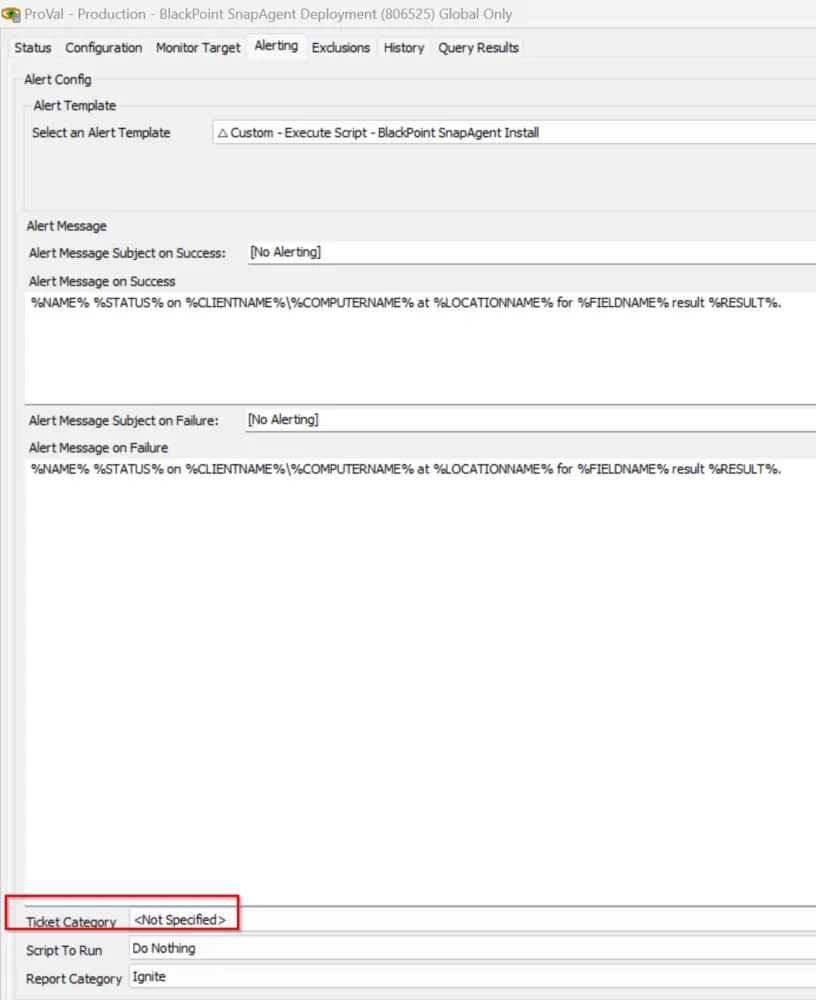
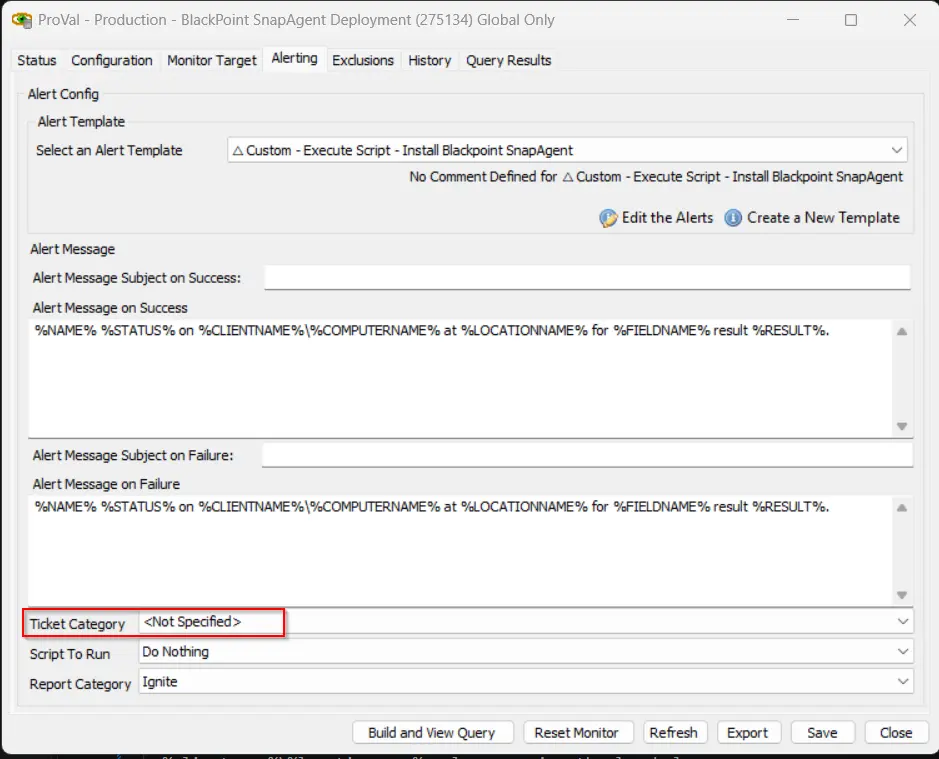
QA - Update
- Name formatting
- Updated screenshots of script and monitor

diff --git a/docs/solutions/blackpoint-snapagent-deployment-cwa.md b/docs/solutions/blackpoint-snapagent-deployment-cwa.md
@@ -9,7 +9,7 @@ tags: ['deployment', 'installation', 'security', 'windows', 'macos']
 draft: false
 unlisted: false
 last_update:
-  date: 2026-11-06
+  date: 2026-11-10S
 ---
 
 ## Purpose
@@ -22,7 +22,7 @@ This solution automates the deployment of the BlackPoint SnapAgent on Windows an
 |---------|------|----------|
 | [BlackPoint - SnapAgent Deployment](/docs/202e2dde-5865-4035-8410-37dc6cb92a60) | Script | Installs the BlackPoint SnapAgent on Windows and macOS machines with the Customer ID and Authentication Token stored in the client-level EDFs. Creates a ticket with the installation log if the installation fails. |
 | [BlackPoint SnapAgent Deployment](/docs/8dad86ab-7d59-43ef-b148-f4ab7df0b8f0) | Internal Monitor | Detects online Windows and macOS agents where the SnapAgent is not installed, the `BlackPoint SnapAgent Deploy` EDF is checked at the client level, and the agent is not excluded at the location or computer level. |
-| `△ Custom - Execute Script - Install Blackpoint SnapAgent` | Alert Template | Runs the [Script - BlackPoint - SnapAgent Deployment](/docs/202e2dde-5865-4035-8410-37dc6cb92a60) on the agents detected by the [Monitor - BlackPoint SnapAgent Deployment](/docs/8dad86ab-7d59-43ef-b148-f4ab7df0b8f0). |
+| `△ Custom - Execute Script - Install BlackPoint SnapAgent` | Alert Template | Runs the [Script - BlackPoint - SnapAgent Deployment](/docs/202e2dde-5865-4035-8410-37dc6cb92a60) on the agents detected by the [Monitor - BlackPoint SnapAgent Deployment](/docs/8dad86ab-7d59-43ef-b148-f4ab7df0b8f0). |
 
 ## Agnostic Content
 
@@ -35,8 +35,8 @@ This solution automates the deployment of the BlackPoint SnapAgent on Windows an
 | Name | Level | Type | Required | Description |
 |------|-------|------|----------|-------------|
 | `BlackPoint SnapAgent Deploy` | Client | Check Box | Yes | Check this EDF to enable SnapAgent deployment for the client. The monitor only detects agents of clients where this EDF is checked. |
-| `Blackpoint Snapagent CustomerID` | Client | Text | Yes | The unique BlackPoint Customer ID (Account UID) used to download the installer and link the endpoints to the correct BlackPoint account. |
-| `Blackpoint Snapagent Authentication Token` | Client | Text | Yes | The BlackPoint Authentication Token used to authorize the installer download and register the agent. |
+| `BlackPoint SnapAgent CustomerID` | Client | Text | Yes | The unique BlackPoint Customer ID (Account UID) used to download the installer and link the endpoints to the correct BlackPoint account. |
+| `BlackPoint SnapAgent Authentication Token` | Client | Text | Yes | The BlackPoint Authentication Token used to authorize the installer download and register the agent. |
 | `BlackPoint SnapAgent Exclude` | Location | Check Box | No | Check this EDF to exclude all agents of the location from the SnapAgent deployment. |
 | `BlackPoint SnapAgent Exclude` | Computer | Check Box | No | Check this EDF to exclude the agent from the SnapAgent deployment. |
 
@@ -45,7 +45,7 @@ This solution automates the deployment of the BlackPoint SnapAgent on Windows an
 1. Import the following content using the `ProSync` plugin:
    - [Script - BlackPoint - SnapAgent Deployment](/docs/202e2dde-5865-4035-8410-37dc6cb92a60)
    - [Internal Monitor - BlackPoint SnapAgent Deployment](/docs/8dad86ab-7d59-43ef-b148-f4ab7df0b8f0)
-   - Alert Template - `△ Custom - Execute Script - Install Blackpoint SnapAgent`
+   - Alert Template - `△ Custom - Execute Script - Install BlackPoint SnapAgent`
 
 2. Reload the system cache:
 
@@ -57,14 +57,14 @@ This solution automates the deployment of the BlackPoint SnapAgent on Windows an
 
 5. Configure the EDFs for each client that requires the SnapAgent:
    - Check the client-level EDF `BlackPoint SnapAgent Deploy`.
-   - Fill the client-level EDF `Blackpoint Snapagent CustomerID` with the client's BlackPoint Customer ID.
-   - Fill the client-level EDF `Blackpoint Snapagent Authentication Token` with the client's BlackPoint Authentication Token.
+   - Fill the client-level EDF `BlackPoint SnapAgent CustomerID` with the client's BlackPoint Customer ID.
+   - Fill the client-level EDF `BlackPoint SnapAgent Authentication Token` with the client's BlackPoint Authentication Token.
    - Optional: Check the location-level or computer-level `BlackPoint SnapAgent Exclude` EDF to exclude locations or computers from the deployment.
 
 6. Configure the solution as outlined below:
    - Navigate to Automation → Monitors within the CWA Control Center and set up the following:
      - [Internal Monitor - BlackPoint SnapAgent Deployment](/docs/8dad86ab-7d59-43ef-b148-f4ab7df0b8f0)
-       - Set up with the `△ Custom - Execute Script - Install Blackpoint SnapAgent` alert template.
+       - Set up with the `△ Custom - Execute Script - Install BlackPoint SnapAgent` alert template.
        - Set the ticket category at the monitor level to enable ticket creation for failed installations:
 
          ![Ticket Category](../../static/img/docs/8dad86ab-7d59-43ef-b148-f4ab7df0b8f0/image_1.webp)
@@ -76,11 +76,11 @@ This solution automates the deployment of the BlackPoint SnapAgent on Windows an
 **Q:** Which operating systems does this solution support?  
 **A:** Windows and macOS. The monitor detects both Windows and macOS agents, and the script runs the correct installation method for each operating system.
 
-**Q:** What happens if the `Blackpoint Snapagent CustomerID` or `Blackpoint Snapagent Authentication Token` EDF is empty?  
+**Q:** What happens if the `BlackPoint SnapAgent CustomerID` or `BlackPoint SnapAgent Authentication Token` EDF is empty?  
 **A:** Both values are required to download the installer and register the agent. If either value is missing, the installation fails and the script creates a ticket if the ticket category is set at the monitor level.
 
 **Q:** Does the solution still use the `BlackPoint SNAP URL` EDF?  
-**A:** No. The `BlackPoint SNAP URL` EDF has been replaced by the `Blackpoint Snapagent CustomerID` and `Blackpoint Snapagent Authentication Token` EDFs. The installer is now downloaded for the configured Customer ID, so no installer URL needs to be maintained.
+**A:** No. The `BlackPoint SNAP URL` EDF has been replaced by the `BlackPoint SnapAgent CustomerID` and `BlackPoint SnapAgent Authentication Token` EDFs. The installer is now downloaded for the configured Customer ID, so no installer URL needs to be maintained.
 
 **Q:** How do I exclude a location or a single computer from the deployment?  
 **A:** Check the `BlackPoint SnapAgent Exclude` EDF at the location level to exclude all agents of that location, or at the computer level to exclude a single agent.
@@ -92,10 +92,10 @@ This solution automates the deployment of the BlackPoint SnapAgent on Windows an
 **A:** The monitor only detects agents where the SnapAgent is not installed, so the script will not run on machines that already have it.
 
 **Q:** How can I confirm that the SnapAgent installed successfully?  
-**A:** Review the script log for the machine and check that `Blackpoint Agent` appears in the installed applications. On Windows, the agent can take up to 5 minutes to register after the installation.
+**A:** Review the script log for the machine and check that `BlackPoint Agent` appears in the installed applications. On Windows, the agent can take up to 5 minutes to register after the installation.
 
 ## Changelog
 
-### 2026-11-06
+### 2026-11-10
 
 - Initial version of the document

diff --git a/docs/cwa/scripts/blackpoint-snapagent-deployment.md b/docs/cwa/scripts/blackpoint-snapagent-deployment.md
@@ -4,17 +4,17 @@ slug: /202e2dde-5865-4035-8410-37dc6cb92a60
 title: 'BlackPoint - SnapAgent Deployment'
 title_meta: 'BlackPoint - SnapAgent Deployment'
 keywords: ['snapagent', 'installation', 'monitor', 'edf', 'deployment']
-description: 'This script installs the Blackpoint SnapAgent on Windows and macOS machines.'
+description: 'This script installs the BlackPoint SnapAgent on Windows and macOS machines.'
 tags: ['deployment', 'installation', 'logging']
 draft: false
 unlisted: false
 last_update:
-  date: 2026-11-06
+  date: 2026-11-10
 ---
 
 ## Summary
 
-This script installs the Blackpoint SnapAgent on Windows and macOS machines. It uses the Blackpoint Customer ID and authentication token stored in the client-level EDFs to link the endpoint to the correct Blackpoint account. If the installation fails, the script creates a ticket with the installation log.
+This script installs the BlackPoint SnapAgent on Windows and macOS machines. It uses the BlackPoint Customer ID and authentication token stored in the client-level EDFs to link the endpoint to the correct BlackPoint account. If the installation fails, the script creates a ticket with the installation log.
 
 ## Sample Run
 
@@ -22,16 +22,16 @@ This script installs the Blackpoint SnapAgent on Windows and macOS machines. It 
 
 ## Dependencies
 
-- [Agnostic : Install-BlackpointAgent](/docs/0cf14533-c145-4a77-8ea7-8c70476768a9) 
+- [Agnostic : Install-BlackPointAgent](/docs/0cf14533-c145-4a77-8ea7-8c70476768a9) 
 - [Solution : BlackPoint SnapAgent Deployment](/docs/ab272f63-2bea-430c-88ac-d8c90abbb051) 
 
 ## Extra Data Fields
 
 | Name                             | Level   | Type       | Description     |
 |----------------------------------|---------|------------|------------------------------------|
-| BlackPoint SnapAgent Deploy      | Client  | Check Box  | This client-level EDF needs to be checked for the SnapAgent installation. The monitor [Monitor - BlackPoint SnapAgent Deployment](/docs/8dad86ab-7d59-43ef-b148-f4ab7df0b8f0) is directly proportional to this EDF.  |
-| Blackpoint Snapagent CustomerID | Client  | Text       | This client-level EDF must be filled with the Unique BlackPoint Account UID used to identify and link endpoints to the correct BlackPoint account. |
-| Blackpoint Snapagent Authentication Token | Client  | Text       | This client-level EDF must be filled with Unique BlackPoint Authentication Code required to authenticate and install the BlackPoint Agent on endpoints. |
+| BlackPoint SnapAgent Deploy      | Client  | Check Box  | This client-level EDF needs to be checked for the SnapAgent installation. The monitor [BlackPoint SnapAgent Deployment](/docs/8dad86ab-7d59-43ef-b148-f4ab7df0b8f0) is directly proportional to this EDF.  |
+| BlackPoint SnapAgent CustomerID | Client  | Text       | This client-level EDF must be filled with the Unique BlackPoint Account UID used to identify and link endpoints to the correct BlackPoint account. |
+| BlackPoint SnapAgent Authentication Token | Client  | Text       | This client-level EDF must be filled with Unique BlackPoint Authentication Code required to authenticate and install the BlackPoint Agent on endpoints. |
 | BlackPoint SnapAgent Exclude     | Location| Check Box  | If this location-level EDF is checked, then all agents of the location will be excluded from the monitor for the SnapAgent deployment. The monitor [Monitor - BlackPoint SnapAgent Deployment](/docs/8dad86ab-7d59-43ef-b148-f4ab7df0b8f0) is indirectly proportional to this EDF.              |
 | BlackPoint SnapAgent Exclude     | Computer| Check Box  | If this computer-level EDF is checked, then the agent will be excluded from the monitor for the SnapAgent deployment. The monitor is indirectly [Monitor - BlackPoint SnapAgent Deployment](/docs/8dad86ab-7d59-43ef-b148-f4ab7df0b8f0) proportional to this EDF.                                 |
 
@@ -50,18 +50,18 @@ This script installs the Blackpoint SnapAgent on Windows and macOS machines. It 
 ![Ticketing Category](../../../static/img/docs/202e2dde-5865-4035-8410-37dc6cb92a60/image_2.webp)
 
 - **Subject:**  
-  SW - Blackpoint SnapAgent Installation Failed on %clientname%\%computername%
+  SW - BlackPoint SnapAgent Installation Failed on %clientname%\%computername%
 
 - **Body:** [Windows]
   ```
-  The Blackpoint SnapAgent Installation Failed on %computername% at %clientname%\%locationname%. Please review the log below:
+  The BlackPoint SnapAgent Installation Failed on %computername% at %clientname%\%locationname%. Please review the log below:
 
   @ErrorLog@.
   ```
 
 - **Body:** [MAC]
   ```
-  The Blackpoint SnapAgent Installation Failed on %computername% at %clientname%\%locationname%. Please review the log below:
+  The BlackPoint SnapAgent Installation Failed on %computername% at %clientname%\%locationname%. Please review the log below:
 
   %Shellresult%
   ```
@@ -72,11 +72,11 @@ This script installs the Blackpoint SnapAgent on Windows and macOS machines. It 
 
 ## Changelog
 
-### 2026-11-06
+### 2026-11-10
 
 - Renamed the script from `BlackPoint - SnapAgent Installer` to `BlackPoint - SnapAgent Deployment`.
 - Added support for macOS machines.
-- Replaced the `BlackPoint SNAP URL` EDF with the `Blackpoint Snapagent CustomerID` and `Blackpoint Snapagent Authentication Token` client-level EDFs.
+- Replaced the `BlackPoint SNAP URL` EDF with the `BlackPoint SnapAgent CustomerID` and `BlackPoint SnapAgent Authentication Token` client-level EDFs.
 - Added the `Set_Environment` user parameter to import the EDFs used by the solution.
 - Updated the ticket subject and body, and added a separate ticket body for macOS machines.
 

diff --git a/docs/cwa/monitors/blackpoint-snapagent-deployment.md b/docs/cwa/monitors/blackpoint-snapagent-deployment.md
@@ -9,7 +9,7 @@ tags: ['deployment', 'ticketing', 'windows']
 draft: false
 unlisted: false
 last_update:
-  date: 2026-11-06
+  date: 2026-11-10
 ---
 
 ## Summary
@@ -32,7 +32,7 @@ Global
 
 ## Ticketing
 
-- The ticket is controlled by the script [Script : BlackPoint - SnapAgent Deployment](/docs/202e2dde-5865-4035-8410-37dc6cb92a60).
+- The ticket is controlled by the script [BlackPoint - SnapAgent Deployment](/docs/202e2dde-5865-4035-8410-37dc6cb92a60).
 - To enable the ticketing feature, it is mandatory to set the ticket category at the monitor level, as shown below:
 
 ![Ticket Category](../../../static/img/docs/8dad86ab-7d59-43ef-b148-f4ab7df0b8f0/image_1.webp)
@@ -40,11 +40,11 @@ Global
 
 ## Alert Template
 
-`△ Custom - Execute Script - Install Blackpoint SnapAgent`
+`△ Custom - Execute Script - Install BlackPoint SnapAgent`
 
 ## Changelog
 
-### 2026-11-06
+### 2026-11-10
 
 - Extended the monitor to detect MAC agents in addition to Windows agents.
 - Removed the `BlackPoint SNAP URL` EDF dependency.
